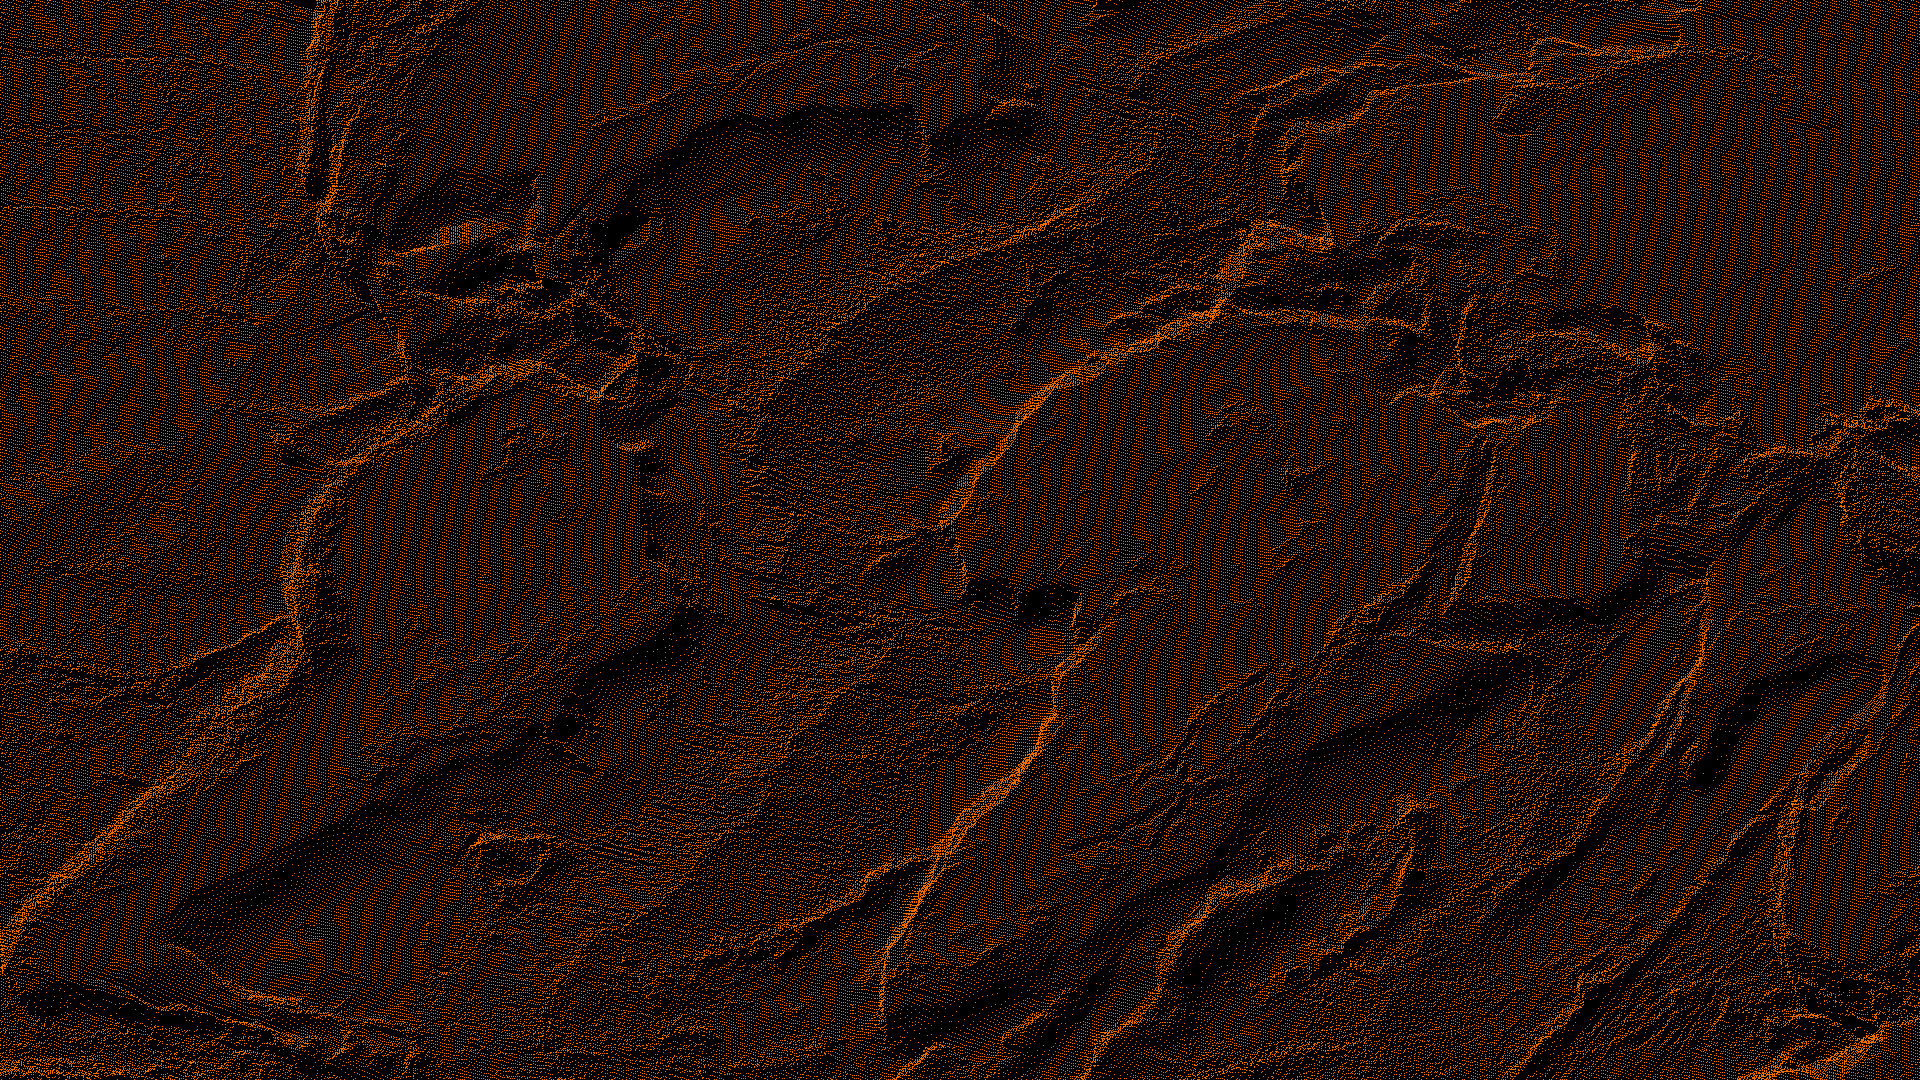
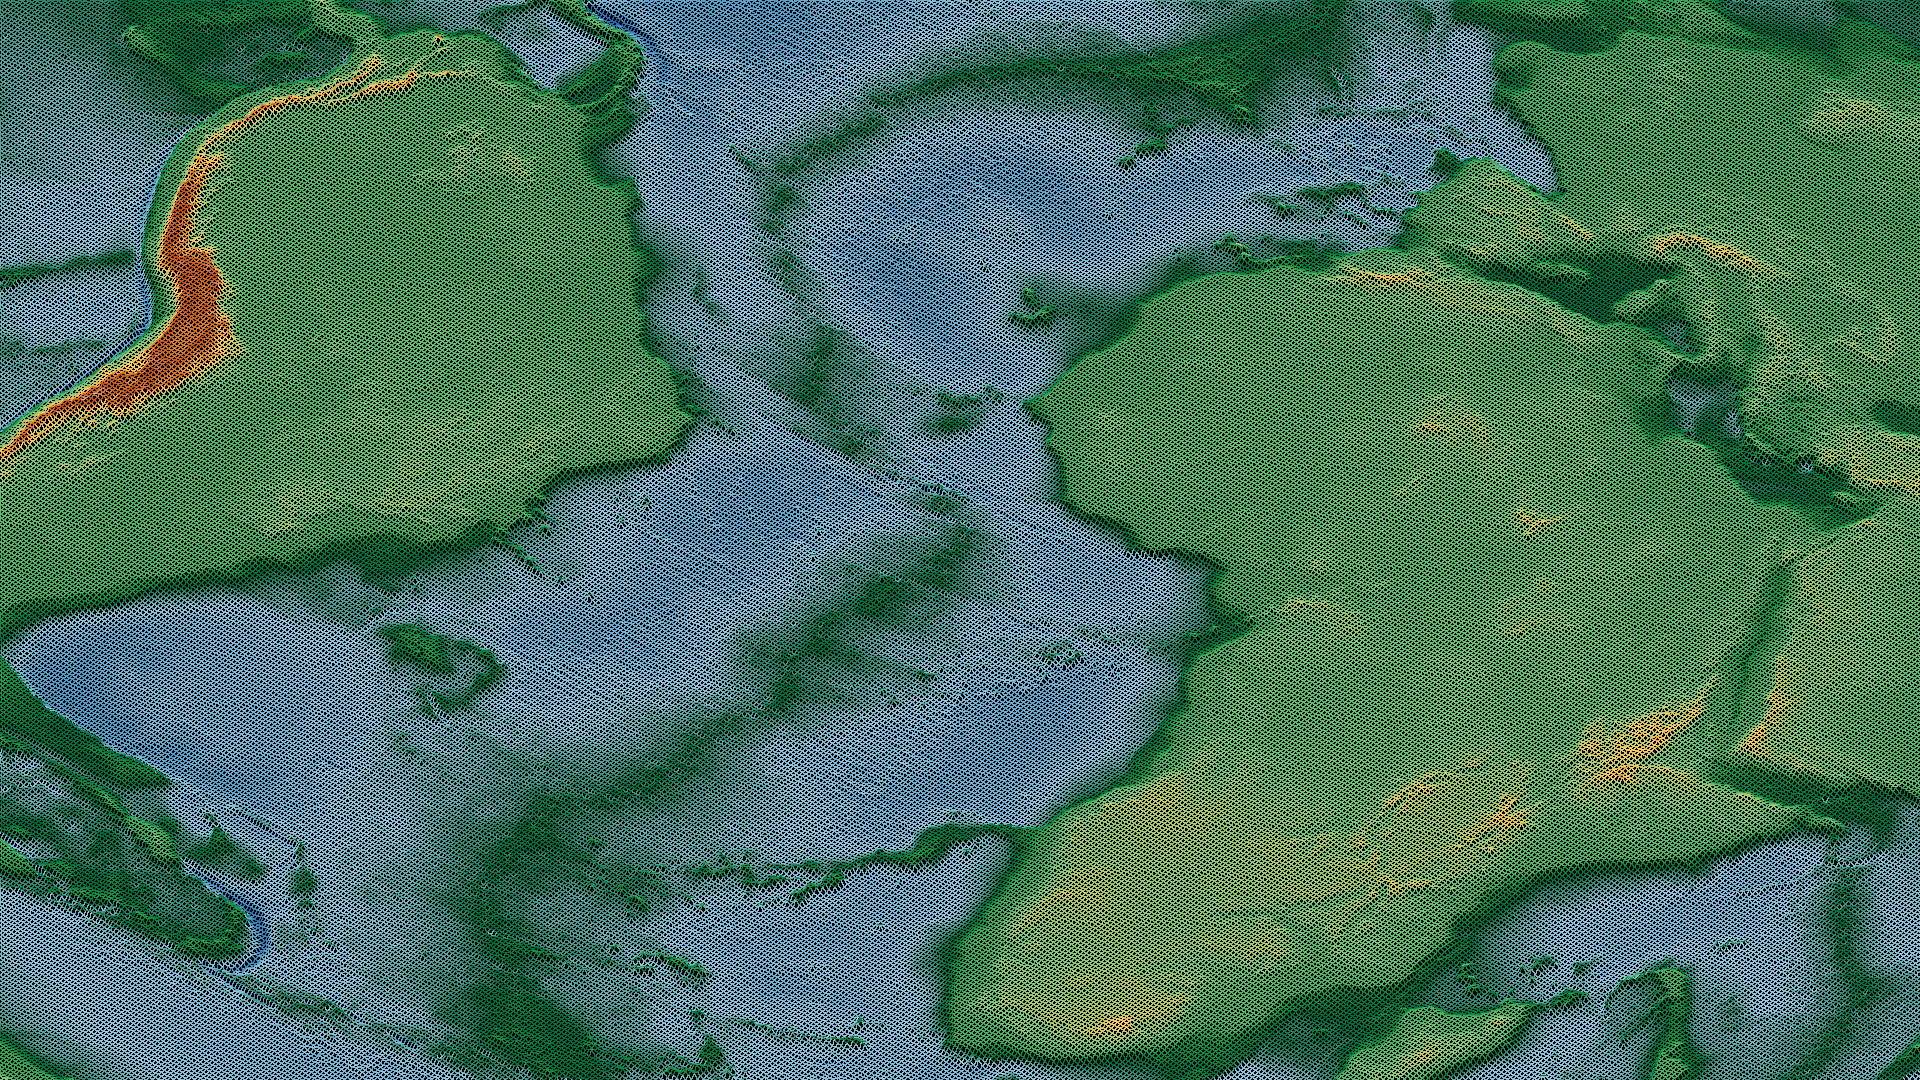
Modify palette to use cartographic color scales

diff --git a/srcs/z_utils.c b/srcs/z_utils.c
@@ -6,7 +6,7 @@
 /*   By: jesuserr <jesuserr@student.42.fr>          +#+  +:+       +#+        */
 /*                                                +#+#+#+#+#+   +#+           */
 /*   Created: 2023/05/30 13:25:20 by jesuserr          #+#    #+#             */
-/*   Updated: 2026/03/06 19:17:00 by jesuserr         ###   ########.fr       */
+/*   Updated: 2026/03/11 18:32:39 by jesuserr         ###   ########.fr       */
 /*                                                                            */
 /* ************************************************************************** */
 
@@ -46,23 +46,25 @@ void	z_centering(t_fdf *fdf)
 }
 
 // Returns a color based on normalized height (0.0 to 1.0) using a gradient of
-// 5 colors: Blue->Cyan->Green->Yellow->Red. Determines which segment the height
-// falls into (0 to 3), calculates the offset within that segment and then uses
-// linear interpolation to blend the RGB components of the two adjacent colors,
-// creating smooth color transitions across the height range.
+// 10 colors: Abyss->Ocean->Sea->Coast->Lowland->Plains->Meadow->Hills->
+// Mountain->Snow. Determines which segment the height falls into (from 0 to 8),
+// calculates the offset linear interpolation to blend the RGB components of the
+// two adjacent colors, creating smooth color transitions across the height
+// range.
 static int	get_height_color(float normalized)
 {
-	int		colors[5];
+	int		colors[10];
 	int		rgb[3];
 	int		segment;
 	float	offset;
 
-	ft_memcpy(colors, (int [5]){HEX_BLUE, HEX_CYAN, HEX_GREEN, HEX_YELLOW, \
-	HEX_RED}, sizeof(int) * 5);
-	segment = (int)(normalized * 4);
-	if (segment >= 4)
-		return (colors[4]);
-	offset = (normalized * 4) - segment;
+	ft_memcpy(colors, (int [10]){HEX_ABYSS, HEX_OCEAN, HEX_SEA, HEX_COAST, \
+	HEX_LOWLAND, HEX_PLAINS, HEX_MEADOW, HEX_HILLS, HEX_MOUNTAIN, HEX_PEAKS}, \
+	sizeof(int) * 10);
+	segment = (int)(normalized * 9);
+	if (segment >= 9)
+		return (colors[9]);
+	offset = (normalized * 9) - segment;
 	rgb[0] = ((colors[segment] >> 16) & 0xFF) * (1 - offset) + \
 	((colors[segment + 1] >> 16) & 0xFF) * offset;
 	rgb[1] = ((colors[segment] >> 8) & 0xFF) * (1 - offset) + \

diff --git a/srcs/fdf.h b/srcs/fdf.h
@@ -6,7 +6,7 @@
 /*   By: jesuserr <jesuserr@student.42.fr>          +#+  +:+       +#+        */
 /*                                                +#+#+#+#+#+   +#+           */
 /*   Created: 2023/05/18 11:34:08 by jesuserr          #+#    #+#             */
-/*   Updated: 2026/03/06 18:44:04 by jesuserr         ###   ########.fr       */
+/*   Updated: 2026/03/11 18:17:52 by jesuserr         ###   ########.fr       */
 /*                                                                            */
 /* ************************************************************************** */
 
@@ -31,11 +31,16 @@
 # define HEIGHT			1080
 # define ALLOWED_CHR	"-0123456789 ,xABCDEFabcdef"
 # define DEF_COLOR		0xf26e04
-# define HEX_BLUE		0x0000FF
-# define HEX_CYAN		0x00FFFF
-# define HEX_GREEN		0x00FF00
-# define HEX_YELLOW		0xFFFF00
-# define HEX_RED		0xFF0000
+# define HEX_ABYSS		0x08306B			// Deep navy (abyssal depths)
+# define HEX_OCEAN		0x2166AC			// Ocean blue (deep water)
+# define HEX_SEA		0x4393C3			// Mid-depth blue
+# define HEX_COAST		0x92C5DE			// Coastal/shallow water
+# define HEX_LOWLAND	0x006837			// Dark forest green (sea level)
+# define HEX_PLAINS		0x1A9641			// Forest green (lowlands)
+# define HEX_MEADOW		0x78C679			// Light green (plains)
+# define HEX_HILLS		0xFECC5C			// Amber yellow (hills)
+# define HEX_MOUNTAIN	0xBD4A0E			// Terra cotta (mountains)
+# define HEX_PEAKS		0xF5F5F5			// Snow white (peaks)
 # define RGBA_WHITE		0xFFFFFFFF			// White color in RGBA format
 # define PI				3.141592654
 # define INIT_SCALE		0.75

diff --git a/README.md b/README.md
@@ -284,6 +284,14 @@ The project includes various test maps in the `maps/` directory:
 - **Isometric Projection**: 45° rotation on Y-axis, 35° on X-axis
 - **Automatic Scaling**: Adapts to different map sizes and window dimensions
 
+### Hypsometric Color Palette
+When map points have no explicit color, elevation is rendered using a **10-stop hypsometric tint gradient** inspired by the color conventions used in physical cartography. The palette covers the full elevation range including below-sea-level altitudes:
+
+- **Stops 0–3**: Deep navy → ocean blue → mid blue → coastal blue (water / bathymetry)
+- **Stops 4–6**: Dark green → forest green → light green (lowlands and plains)
+- **Stops 7–8**: Amber yellow → terra cotta (hills and mountains)
+- **Stop 9**: Near-white (snow-capped peaks)
+
 ### Code Standards
 This SDL2 version maintains **full compliance with 42's Norminette** coding standard, which explains some unconventional coding patterns that may be encountered, such as:
 - Function length limited to 25 lines and no more than 5 functions per file
